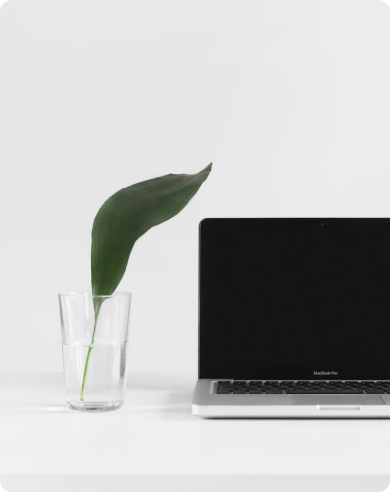
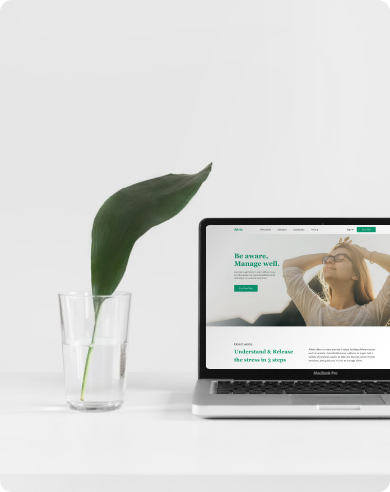
Recolored background, added 3-rd flex-element into "understand-wrapper" replaced img with laptop, corrected paddings and margin between text-wrapper and steps-wrapper

Changed region(s): [[0.5231, 0.4573, 1.0, 0.7622]]

diff --git a/src/index.html b/src/index.html
@@ -41,9 +41,12 @@
     <section class="understand">
         <div class="content-wrapper content-wrapper-understand">
             <div class="understand-wrapper">
+                <div class="subject">
+                    <p class="text-wrapper__title-p">How it works</p>
+                </div>
                 <div class="text-wrapper">
                     <div class="text-wrapper__title">
-                        <p class="text-wrapper__title-p">How it works</p>
+                        
                         <h2 class="text-wrapper__title-h">Understand & Release 
                             the stress in 3 steps</h2>
                     </div>
@@ -64,7 +67,7 @@
                     </div>
                     <div class="step-wrapper__item-3">
                         <h2 class="step-wrapper__header3">Alivio!</h2>
-                        <p class="step-wrapper__p3">Now you are aware, and have a way to manage and overcome your own stress.
+                        <p class="step-wrapper__p3">Now you are aware, and have a way to manage and overcome your own stress.<br>
                             What are you waiting for? Alivio today!</p>
                         <img class="step-wrapper__img3" src="./img/Step3.png" alt="">
                     </div>

diff --git a/src/scss/text-wrapper.scss b/src/scss/text-wrapper.scss
@@ -1,6 +1,8 @@
 .text-wrapper{
     display: flex;
     justify-content: flex-start;
+    column-gap: 135px;
+    margin-bottom: 142px;
 }
 
 .text-wrapper__title-p{
@@ -17,18 +19,15 @@
     font-size: 50px;
     font-weight: 700;
     color:$color-green;
-    line-height: 78.5px;
+    line-height: 157%;
     
 }
 
-.text-wrapper__text{
-    padding-top: 69px;
-}
 
 .text-wrapper__text-p{
-    margin-left: 144px;
+    margin-top: 20px;
 
-    min-height: 269px;
+
     max-width: 671px;
     width:100%;
     line-height: 30px;

diff --git a/src/scss/steps-wrapper.scss b/src/scss/steps-wrapper.scss
@@ -73,7 +73,7 @@
 }
 
 .step-wrapper__img2{
-    margin-top: 60px;
+    margin-top: 38px;
     border-radius: 12px;
 }
 
@@ -99,15 +99,16 @@
 
 .step-wrapper__p3{
     display: block;
-    margin-top: 55px;
+    margin-top: 46px;
     width: 441px;
 
-    line-height: 30px;
+    line-height: 150%;
     color:$color-dark-green;
 
 }
 
 .step-wrapper__img3{
     margin-top: 48px;
+    margin-left: 5px;
     border-radius: 12px;
 }

diff --git a/src/scss/understand.scss b/src/scss/understand.scss
@@ -1,9 +1,8 @@
 .understand{
     padding-top: 169px;
-    background-color: #E5E5E5;
     min-height: 1606px;
 }
 
 .content-wrapper-understand{
-    max-width: 1421px;
+    max-width: 1443px;
 }
